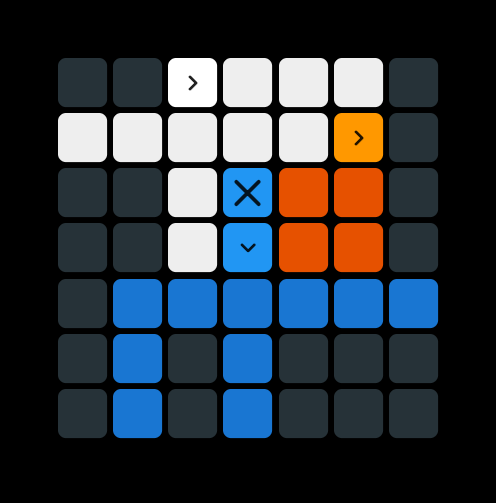
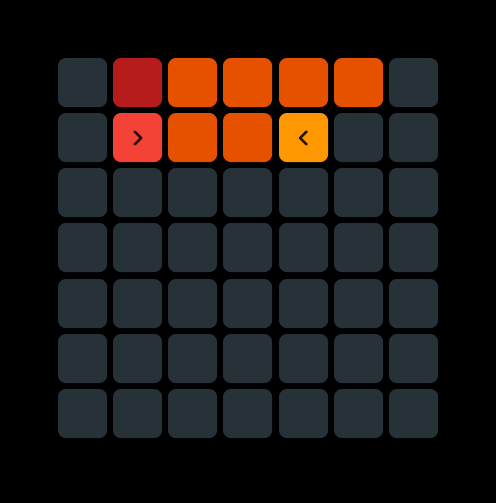
shooting bug fixed

Changed region(s): [[0.0907, 0.0895, 0.9073, 0.8946]]

diff --git a/lib/main.dart b/lib/main.dart
@@ -513,11 +513,23 @@ class Player extends Entity {
       }
       var cell =
           cellsNotifier.value.where((c) => c.position == currentPoint).first;
-      if (cell.entity is Player) {
-        (cell.entity as Player).hp -= (bulletMaxDamage - i);
+      if (playerManager.players
+          .where((p) => p.position == currentPoint)
+          .isNotEmpty) {
+        playerManager.players
+            .where((p) => p.position == currentPoint)
+            .first
+            .hp -= (bulletMaxDamage - i);
         break;
-      } else if (cell.entity is Wall) {
-        (cell.entity as Wall).hp -= (bulletMaxDamage - i);
+      } else if (entityManager.entities
+          .whereType<Wall>()
+          .where((p) => p.position == currentPoint)
+          .isNotEmpty) {
+        entityManager.entities
+            .whereType<Wall>()
+            .where((p) => p.position == currentPoint)
+            .first
+            .hp -= (bulletMaxDamage - i);
         break;
       } else {
         cell.team = team;
